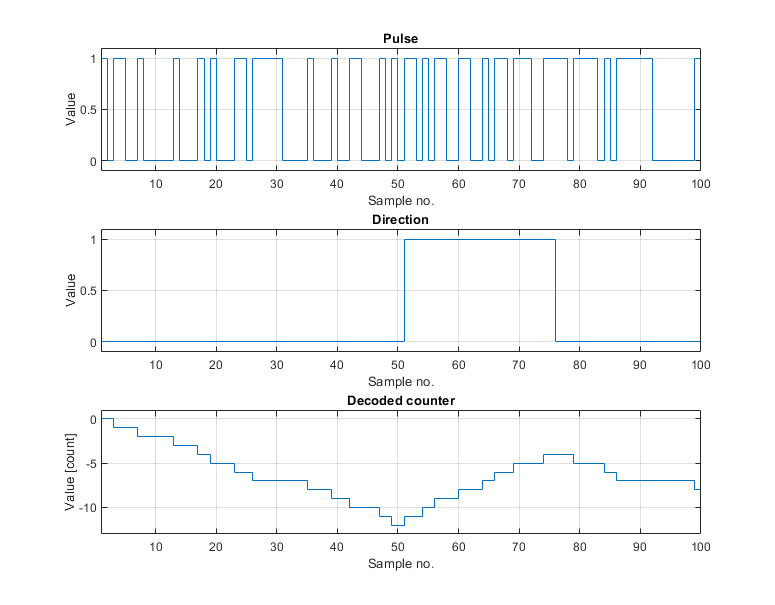
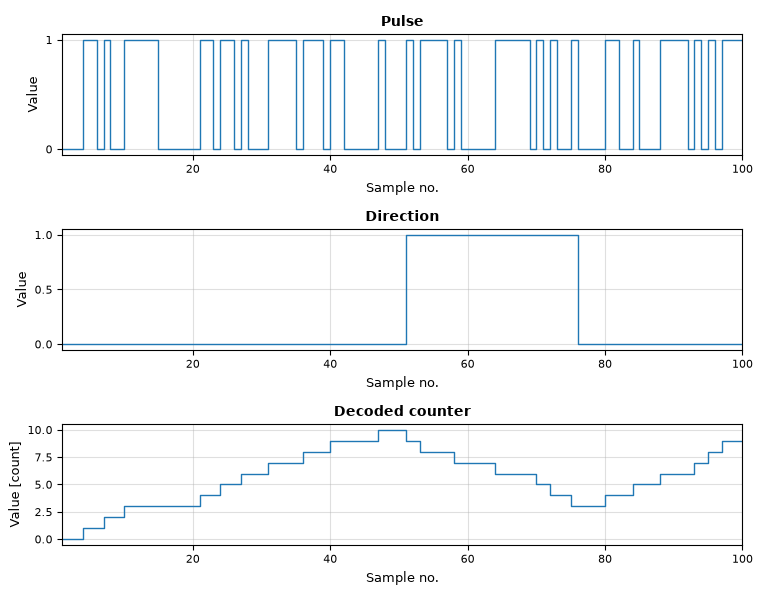
docs(pd): P/D input counts up on direction low (FPGA-main #531) (#50)
* docs(pd): P/D input counts up on direction low (FPGA-main #531)

* docs(pd): zh pages, timing diagram and decode plot to direction-low-counts-up (FPGA-main #531)

- 00-overview.zh.md / PDEncDir.zh.md: same correction as the English pages, plus the rc4 migration note.
- pd-timing.svg: direction low for the up-counting pulses, high for the down-counting ones.
- assets/image32.png: regenerated decode example (direction 0 counts up).

diff --git a/03 USER MANUALS/00 KEYWORD REFERENCE MANUAL/content/02-keywords/10-motion/06-motion-mode-pulse-and-direction-pd/00-overview.md b/03 USER MANUALS/00 KEYWORD REFERENCE MANUAL/content/02-keywords/10-motion/06-motion-mode-pulse-and-direction-pd/00-overview.md
@@ -21,9 +21,9 @@ There are 2 phases of pulse and direction command.
 
 This section discusses the decoding of pulse and direction commands (generating a position reference from incoming pulse/direction inputs).
 
-In the decoding of the pulse-direction signals, each rising edge of the pulse will cause the counter to increment if direction signal is high, or decrement if direction signal is low. The decoded counter will be used as position reference or target position depending on motion mode.
+In the decoding of the pulse-direction signals, each rising edge of the pulse will cause the counter to increment if direction signal is low, or decrement if direction signal is high. This matches the drive's own pulse-and-direction output, where direction low means a positive move. The decoded counter will be used as position reference or target position depending on motion mode.
 
-The two input lines are first cleaned by a hardware debounce filter (set per axis by [DInFilt](../../../02-keywords/05-inputs-outputs/04-digital-inputs/DInFilt.md), range 0-15): a level change is accepted only after it has been held stable for a number of filter-clock periods, which rejects electrical noise and contact bounce on the P/D input lines. How the cleaned lines are then counted depends on [PDSubType](../../../02-keywords/10-motion/06-motion-mode-pulse-and-direction-pd/PDSubType.md): in pulse-and-direction format only the **rising edge** of the pulse line is counted (one count per pulse, with the direction line setting the sign), whereas in A-quad-B format **every** transition of the two quadrature channels is counted (four counts per encoder cycle, with the lead/lag order setting the sign). Each controller cycle the hardware hands the firmware the net signed step count accumulated since the previous cycle, which is then scaled, sign-corrected and accumulated into [PDPos](../../../02-keywords/10-motion/06-motion-mode-pulse-and-direction-pd/PDPos.md).
+The two input lines are first cleaned by a hardware debounce filter (set per axis by [DInFilt](../../../02-keywords/05-inputs-outputs/04-digital-inputs/DInFilt.md), range 0-15): a level change is accepted only after it has been held stable for a number of filter-clock periods, which rejects electrical noise and contact bounce on the P/D input lines. How the cleaned lines are then counted depends on [PDSubType](../../../02-keywords/10-motion/06-motion-mode-pulse-and-direction-pd/PDSubType.md): in pulse-and-direction format only the **rising edge** of the pulse line is counted (one count per pulse, with the direction line setting the sign), whereas in A-quad-B format **every** transition of the two quadrature channels is counted (four counts per encoder cycle; channel A leading channel B counts up, B leading A counts down). Each controller cycle the hardware hands the firmware the net signed step count accumulated since the previous cycle, which is then scaled, sign-corrected and accumulated into [PDPos](../../../02-keywords/10-motion/06-motion-mode-pulse-and-direction-pd/PDPos.md).
 
 ![image32.png](../../../assets/image32.png)
 

diff --git a/03 USER MANUALS/00 KEYWORD REFERENCE MANUAL/content/02-keywords/10-motion/06-motion-mode-pulse-and-direction-pd/00-overview.zh.md b/03 USER MANUALS/00 KEYWORD REFERENCE MANUAL/content/02-keywords/10-motion/06-motion-mode-pulse-and-direction-pd/00-overview.zh.md
@@ -21,9 +21,9 @@
 
 本节讨论脉冲方向指令的解码（从输入的脉冲/方向信号生成位置参考）。
 
-在脉冲方向信号的解码过程中，若方向信号为高电平，则每个脉冲上升沿使计数器递增；若方向信号为低电平，则计数器递减。解码后的计数器将根据运动模式用作位置参考或目标位置。
+在脉冲方向信号的解码过程中，若方向信号为低电平，则每个脉冲上升沿使计数器递增；若方向信号为高电平，则计数器递减。这与驱动器自身的脉冲方向输出一致，其中方向低电平表示正向运动。解码后的计数器将根据运动模式用作位置参考或目标位置。
 
-两条输入线首先经过硬件消抖滤波器处理（由 [DInFilt](../../../02-keywords/05-inputs-outputs/04-digital-inputs/DInFilt.md) 按轴设置，范围 0-15）：仅当电平变化保持稳定达到一定数量的滤波器时钟周期后才被接受，从而滤除 P/D 输入线上的电气噪声和触点抖动。经过滤波后的信号如何计数取决于 [PDSubType](../../../02-keywords/10-motion/06-motion-mode-pulse-and-direction-pd/PDSubType.md)：脉冲方向格式仅计数脉冲线的**上升沿**（每个脉冲计一次，方向线决定符号），而 A-quad-B 格式计数两个正交通道的**每次**跳变（每个编码器周期计四次，超前/滞后顺序决定符号）。每个控制器周期，硬件将自上次周期以来累积的净有符号步数传递给固件，随后经过缩放、符号修正并累积到 [PDPos](../../../02-keywords/10-motion/06-motion-mode-pulse-and-direction-pd/PDPos.md) 中。
+两条输入线首先经过硬件消抖滤波器处理（由 [DInFilt](../../../02-keywords/05-inputs-outputs/04-digital-inputs/DInFilt.md) 按轴设置，范围 0-15）：仅当电平变化保持稳定达到一定数量的滤波器时钟周期后才被接受，从而滤除 P/D 输入线上的电气噪声和触点抖动。经过滤波后的信号如何计数取决于 [PDSubType](../../../02-keywords/10-motion/06-motion-mode-pulse-and-direction-pd/PDSubType.md)：脉冲方向格式仅计数脉冲线的**上升沿**（每个脉冲计一次，方向线决定符号），而 A-quad-B 格式计数两个正交通道的**每次**跳变（每个编码器周期计四次；A 通道超前 B 通道时递增，B 超前 A 时递减）。每个控制器周期，硬件将自上次周期以来累积的净有符号步数传递给固件，随后经过缩放、符号修正并累积到 [PDPos](../../../02-keywords/10-motion/06-motion-mode-pulse-and-direction-pd/PDPos.md) 中。
 
 ![image32.png](../../../assets/image32.png)
 

diff --git a/03 USER MANUALS/00 KEYWORD REFERENCE MANUAL/content/02-keywords/10-motion/06-motion-mode-pulse-and-direction-pd/PDEncDir.md b/03 USER MANUALS/00 KEYWORD REFERENCE MANUAL/content/02-keywords/10-motion/06-motion-mode-pulse-and-direction-pd/PDEncDir.md
@@ -51,8 +51,8 @@ Configures the sign (direction) of PDPos accumulation relative to the direction 
 
 | Value | Effect on PDPos |
 |---|---|
-| 0 | **Normal.** `PDPos` increments by `pulses × PDFact/PDFactDen` when the direction signal is logic high, and decrements when it is logic low. |
-| 1 | **Inverted.** `PDPos` decrements when the direction signal is logic high, and increments when it is logic low. |
+| 0 | **Normal.** `PDPos` increments by `pulses × PDFact/PDFactDen` when the direction signal is logic low, and decrements when it is logic high. |
+| 1 | **Inverted.** `PDPos` decrements when the direction signal is logic low, and increments when it is logic high. |
 
 This combines with the sign of `PDFact`: a negative `PDFact` and `PDEncDir = 1` cancel out. `PDEncDir` cannot be changed while the axis is in motion or the motor is on.
 
@@ -66,6 +66,8 @@ APDEncDir=1          ; inverted accumulation direction
 ## Changes between versions
 
 `PDEncDir` is **central-i v5 only**. On v4 the keyword is reserved (not implemented). On v5 (central-i) it is a read/write flash parameter with range 0–1 that applies the sign described above. v5 is central-i only, so the standalone product does not expose `PDEncDir`.
+
+From FPGA v5.5.0-rc4 every product counts the P/D input in the same direction: direction low counts up. Before that, AGD155-AF, AGD155-EC, AGD200 and AGD301 (and Central-i encoders set to P/D) counted up on direction high, and only AGD101 counted up on direction low. If you set `PDEncDir = 1` or swapped the direction wire to compensate on those products, undo it after updating.
 
 ## See also
 

diff --git a/03 USER MANUALS/00 KEYWORD REFERENCE MANUAL/content/02-keywords/10-motion/06-motion-mode-pulse-and-direction-pd/PDEncDir.zh.md b/03 USER MANUALS/00 KEYWORD REFERENCE MANUAL/content/02-keywords/10-motion/06-motion-mode-pulse-and-direction-pd/PDEncDir.zh.md
@@ -52,8 +52,8 @@ language: zh-CN
 
 | 值 | 对 PDPos 的影响 |
 |---|---|
-| 0 | **正常。** 方向信号为逻辑高电平时，`PDPos` 按 `pulses × PDFact/PDFactDen` 递增；逻辑低电平时递减。 |
-| 1 | **反转。** 方向信号为逻辑高电平时，`PDPos` 递减；逻辑低电平时递增。 |
+| 0 | **正常。** 方向信号为逻辑低电平时，`PDPos` 按 `pulses × PDFact/PDFactDen` 递增；逻辑高电平时递减。 |
+| 1 | **反转。** 方向信号为逻辑低电平时，`PDPos` 递减；逻辑高电平时递增。 |
 
 这与 `PDFact` 的符号组合使用：负的 `PDFact` 与 `PDEncDir = 1` 相互抵消。轴在运动中或电机使能时不能更改 `PDEncDir`。
 
@@ -67,6 +67,8 @@ APDEncDir=1          ; inverted accumulation direction
 ## 版本间变更
 
 `PDEncDir` 仅适用于 **central-i v5**。在 v4 上该关键字为保留（未实现）。在 v5（central-i）上，它是一个读/写闪存参数，范围为 0–1，应用上述符号。v5 仅适用于 central-i，因此独立产品不提供 `PDEncDir`。
+
+自 FPGA v5.5.0-rc4 起，所有产品对 P/D 输入的计数方向一致：方向低电平时递增。在此之前，AGD155-AF、AGD155-EC、AGD200 和 AGD301（以及设置为 P/D 的 Central-i 编码器）在方向高电平时递增，只有 AGD101 在方向低电平时递增。如果您曾在这些产品上设置 `PDEncDir = 1` 或调换方向线来补偿，请在升级后撤销。
 
 ## 另请参阅
 
